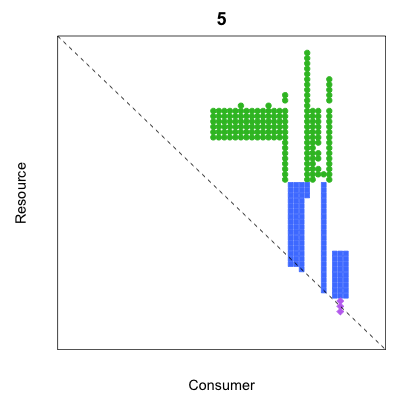
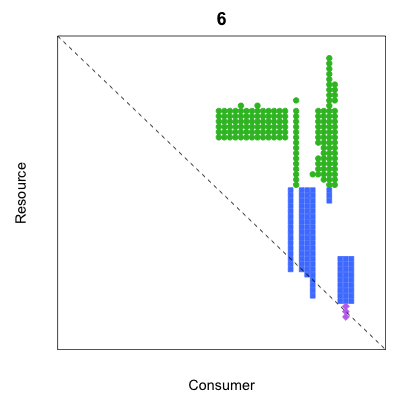
Update documentation

Changed region(s): [[0.63, 0.12, 0.9, 0.81], [0.51, 0.27, 0.54, 0.36], [0.54, 0.03, 0.57, 0.06]]

diff --git a/methods.html b/methods.html
@@ -568,7 +568,7 @@ PlotLinearModels<span class="p">(</span>models<span class="p">)</span>
 
 <span class="gp">&gt; </span>PlotLinearModels<span class="p">(</span>models<span class="p">)</span>
 <span class="go">        &lt;NA&gt;     producer invertebrate    vert.ecto </span>
-<span class="go">     &quot;black&quot;    &quot;#33bd2b&quot;    &quot;#4d82ff&quot;    &quot;#c175f0&quot; </span>
+<span class="go">     &quot;black&quot;    &quot;#33bd2b&quot;    &quot;#4d82ff&quot;    &quot;#c175f0&quot;</span>
 </pre></div>
 
 
@@ -884,7 +884,7 @@ PlotPredationMatrix<span class="p">(</span>res<span class="o">$</span>reordered<
 <span class="gp">&gt; </span>res <span class="o">&lt;-</span> MinimiseSumDietGaps<span class="p">(</span>TL84<span class="p">,</span> n<span class="o">=</span><span class="m">5</span><span class="p">)</span>
 
 <span class="gp">&gt; </span>print<span class="p">(</span>res<span class="o">$</span>sum.gaps<span class="p">)</span>
-<span class="go">[1] 5</span>
+<span class="go">[1] 3</span>
 
 <span class="gp">&gt; </span>PlotPredationMatrix<span class="p">(</span>res<span class="o">$</span>reordered<span class="p">,</span> main<span class="o">=</span>res<span class="o">$</span>sum.gaps<span class="p">)</span>
 </pre></div>
@@ -1447,7 +1447,7 @@ print<span class="p">(</span>round<span class="p">(</span>TrophicLevels<span cla
 <span class="go">           Polyarthra vulgaris        Trichocerca multicrinis         Trichocerca cylindrica          Tropocyclops prasinus </span>
 <span class="go">                             6                              6                              6                             16 </span>
 <span class="go">        Chaoborus punctipennis                   Phoxinus eos              Phoxinus neogaeus                     Umbra limi </span>
-<span class="go">                            22                              9                              9                             12 </span>
+<span class="go">                            22                              9                              9                             12</span>
 </pre></div>
 
 
@@ -1504,6 +1504,61 @@ print<span class="p">(</span>NumberOfNodes<span class="p">(</span>TL84.lumped<sp
 <span class="gp">&gt; </span>print<span class="p">(</span>NumberOfNodes<span class="p">(</span>TL84.lumped<span class="p">))</span>              <span class="c1"># ... and 22 nodes in the lumped web</span>
 <span class="go">[1] 22</span>
 </pre></div>
+
+
+    </td>
+  </tr>
+
+  <tr>
+    <td style="text-align: center">&check;</td>
+    <td style="text-align: center"></td>
+    <td style="text-align: center"></td>
+    <td><a href="javascript:;" class="toggleLink">Shortest trophic paths</a></td>
+  </tr>
+  <tr class="popup">
+    <td colspan="4" style="max-width: 720px">
+      <p>
+        <strong><em>Functions</em></strong>:
+
+          <code>PlotWagonWheel</code>
+
+      </p>
+
+
+
+      <p><strong><em>Examples</em></strong></p>
+
+
+        <!--<div class="highlight"><pre>PlotWagonWheel<span class="p">(</span>TL84<span class="p">,</span> <span class="s">&#39;Ploesoma sp.&#39;</span><span class="p">)</span>
+</pre></div>
+-->
+
+        <div class="highlight"><pre><span class="gp">&gt; </span>PlotWagonWheel<span class="p">(</span>TL84<span class="p">,</span> <span class="s">&#39;Ploesoma sp.&#39;</span><span class="p">)</span>
+</pre></div>
+
+
+        <img src="static/images/shortesttrophicpaths1.png" 
+             alt="Example Shortest trophic paths plot"/>
+
+
+
+        <!--<div class="highlight"><pre><span class="c1"># &#39;Daphnia pulex&#39; is the focus, nodes ordered by degree (total number of</span>
+<span class="c1"># trophic links), lines partially transparent</span>
+PlotWagonWheel<span class="p">(</span>OrderCommunity<span class="p">(</span>TL84<span class="p">,</span> <span class="s">&#39;Degree&#39;</span><span class="p">),</span> <span class="s">&#39;Daphnia pulex&#39;</span><span class="p">,</span>
+            show.nodes.as<span class="o">=</span><span class="s">&#39;labels&#39;</span><span class="p">,</span> link.col<span class="o">=</span>rgb<span class="p">(</span><span class="m">0.8</span><span class="p">,</span><span class="m">0.8</span><span class="p">,</span><span class="m">0.8</span><span class="p">,</span><span class="m">0.5</span><span class="p">))</span>
+</pre></div>
+-->
+
+        <div class="highlight"><pre><span class="gp">&gt; </span><span class="c1"># &#39;Daphnia pulex&#39; is the focus, nodes ordered by degree (total number of</span>
+<span class="gp">&gt; </span><span class="c1"># trophic links), lines partially transparent</span>
+<span class="gp">&gt; </span>PlotWagonWheel<span class="p">(</span>OrderCommunity<span class="p">(</span>TL84<span class="p">,</span> <span class="s">&#39;Degree&#39;</span><span class="p">),</span> <span class="s">&#39;Daphnia pulex&#39;</span><span class="p">,</span>
+<span class="gp">+ </span>            show.nodes.as<span class="o">=</span><span class="s">&#39;labels&#39;</span><span class="p">,</span> link.col<span class="o">=</span>rgb<span class="p">(</span><span class="m">0.8</span><span class="p">,</span><span class="m">0.8</span><span class="p">,</span><span class="m">0.8</span><span class="p">,</span><span class="m">0.5</span><span class="p">))</span>
+</pre></div>
+
+
+        <img src="static/images/shortesttrophicpaths2.png" 
+             alt="Example Shortest trophic paths plot"/>
+
 
 
     </td>
